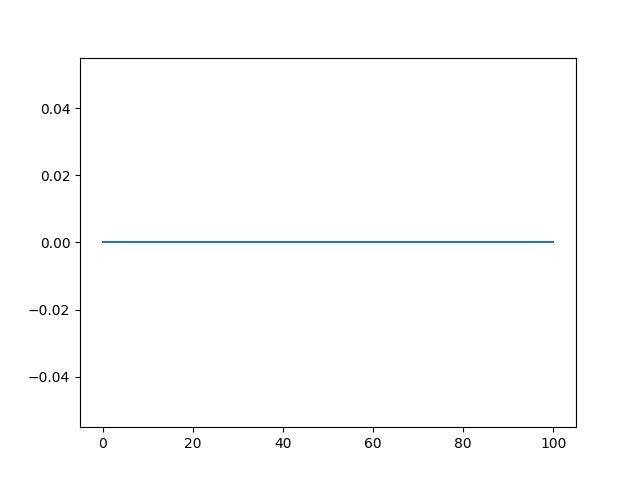
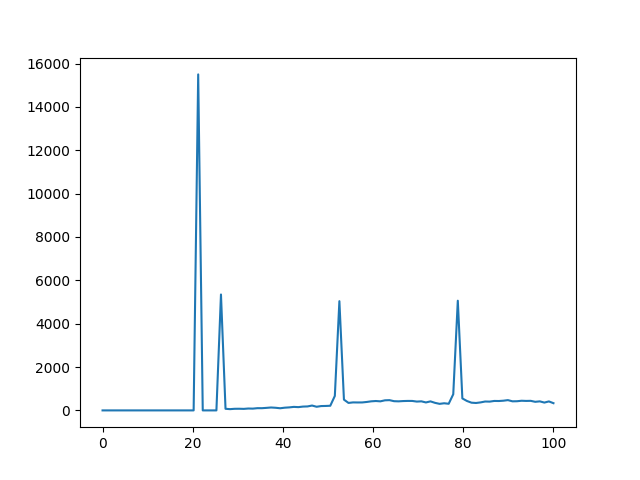
update

diff --git a/LIF/LIF_Nums.py b/LIF/LIF_Nums.py
@@ -1,0 +1,118 @@
+from ctypes import c_int
+
+import numpy as np
+import numpy.ctypeslib as ctl
+from mpi4py import MPI
+
+# 初始化 MPI 配置
+comm = MPI.COMM_WORLD
+comm_rank = comm.Get_rank()
+comm_size = comm.Get_size()
+
+# 初始化 C 动态库函数
+ctl_lib = ctl.load_library("LIF_Nums.so", "./LIF")
+ctl_lib.lifPI.restypes = None
+ctl_lib.lifPI.argtypes = [
+    ctl.ndpointer(dtype=np.single), ctl.ndpointer(dtype='b'), c_int,
+    ctl.ndpointer(dtype=np.single), ctl.ndpointer(dtype=np.int8)
+]
+ctl_lib.IjDot.restypes = None
+ctl_lib.IjDot.argtypes = [
+    ctl.ndpointer(dtype=np.single), ctl.ndpointer(dtype='b'),
+    c_int, c_int, ctl.ndpointer(dtype=np.single)
+]
+
+
+def process_Neuron(niter, numNeuron, totalNeuron):
+
+    # 每个 MPI 进程初始化神经元
+    VmR = np.ones(numNeuron, dtype=np.single) * (-70)
+    Ij = np.ones(numNeuron, dtype=np.single) * (0.25)
+    # 初始化突触，兴奋型连接和抑制型连接
+    WeightMask = np.random.choice([-1, 1, 0], size=(numNeuron, totalNeuron), p=[.2, .2, .6])
+    WeightRand = (np.random.rand(numNeuron, totalNeuron)) * (0.1)
+    Weight = np.multiply(WeightMask, WeightRand).astype(np.single)
+    # 释放内存占用
+    del WeightMask, WeightRand
+    # 初始化灭火期记录
+    period = np.zeros(numNeuron, dtype=np.int8)
+
+    # 主进程
+    if comm_rank == 0:
+        import time
+
+        import matplotlib
+        import matplotlib.pyplot as plt
+        matplotlib.use('Agg')
+        numPlot = 100
+        # 打印发送辅助信息
+        print("本程序为 LIF 神经元的 MPI 分布式仿真")
+        print("Linux MPI 版本为")
+        print("灵活调节神经元个数")
+        print("考虑神经元的灭火期")
+        print("通过突触全随机连接计算电流")
+        print("使用 C 动态库进行加速计算")
+        print("使用 Matplotlib 绘图")
+        print("神经元数量为：", totalNeuron)
+        print("集群个数为：", comm_size)
+        print("迭代次数为：", niter)
+        # 绘图数组
+        picU = np.ones(numPlot, dtype=np.single)
+        picS = np.zeros((numPlot, totalNeuron), dtype=bool)
+        picF = np.zeros(numPlot, dtype=np.int32)
+        start = time.time()  # 记录仿真时长
+        gathertime = 0
+
+    for i in range(niter):
+        # 每个进程分别迭代计算，然后全收集
+        # 初始化放电矩阵
+        Spike = np.zeros(numNeuron, dtype='b')
+        SpikeAll = np.zeros(totalNeuron, dtype='b')
+        ctl_lib.lifPI(VmR, Spike, numNeuron, Ij, period)  # 大规模神经元电位计算
+        count = [2000, 4500, 4500, 4500]
+        display = [0, 2000, 6500, 11000]
+        if comm_rank == 0:
+            start2 = time.time()  # 记录仿真时长
+        comm.Allgatherv(Spike, [SpikeAll, count, display, MPI.BYTE])
+        if comm_rank == 0:
+            gathertime += time.time() - start2
+        ctl_lib.IjDot(Weight, SpikeAll, numNeuron, totalNeuron, Ij)  # 计算突触电流
+
+        # 记录单个神经元的膜电位数据
+        if comm_rank == 0:
+            if (i < numPlot):
+                picU[i] = VmR[90]
+                picS[i] = SpikeAll
+                picF[i] = sum(SpikeAll)
+
+    # 主进程发送辅助信息
+    if comm_rank == 0:
+        print("运行时间为:", time.time() - start)
+        print("收集时间为:", gathertime)
+        # 绘制单个神经元的膜电位曲线验证仿真正确性
+        x = np.linspace(0, numPlot, numPlot)
+        figU, ax = plt.subplots()
+        ax.plot(x, picU)
+        figU.savefig("./output/LIF膜电位.png")
+        figS, ay = plt.subplots()
+        for i in range(numPlot):
+            y = np.argwhere(picS[i] == 1)
+            x = np.ones(len(y)) * i
+            ay.scatter(x, y, c='black', s=0.5)
+        figS.savefig("./output/LIF放电栅格图.png")
+        figF, af = plt.subplots()
+        x = np.linspace(0, numPlot, numPlot)
+        af.plot(x, picF)
+        figF.savefig("./output/LIF放电率.png")
+
+
+# 主程序
+if __name__ == '__main__':
+    # 初始化仿真参数
+    if comm_rank == 0:
+        numNeurons = 2000  # 最小集群神经元数量
+    else:
+        numNeurons = 4500
+    totalNeurons = 15500
+    niters = 1000  # 迭代次数
+    process_Neuron(niters, numNeurons, totalNeurons)

diff --git a/LIF/LIF_GB.py b/LIF/LIF_GB.py
@@ -1,0 +1,117 @@
+
+from ctypes import c_int
+
+import numpy as np
+import numpy.ctypeslib as ctl
+from mpi4py import MPI
+
+# 初始化 MPI 配置
+comm = MPI.COMM_WORLD
+comm_rank = comm.Get_rank()
+comm_size = comm.Get_size()
+
+# 初始化 C 动态库函数
+ctl_lib = ctl.load_library("LIF.so", "./LIF")
+ctl_lib.lifPI.restypes = None
+ctl_lib.lifPI.argtypes = [
+    ctl.ndpointer(dtype=np.single), ctl.ndpointer(dtype='b'), c_int,
+    ctl.ndpointer(dtype=np.single), ctl.ndpointer(dtype=np.int8)
+]
+ctl_lib.IjDot.restypes = None
+ctl_lib.IjDot.argtypes = [
+    ctl.ndpointer(dtype=np.single), ctl.ndpointer(dtype='b'),
+    c_int, c_int, ctl.ndpointer(dtype=np.single)
+]
+
+
+def process_Neuron(niter, numNeuron):
+
+    # 每个 MPI 进程初始化神经元
+    VmR = np.ones(numNeuron, dtype=np.single) * (-70)
+    Ij = np.ones(numNeuron, dtype=np.single) * (0.25)
+    # 初始化突触
+    WeightMask = (np.random.choice(  # 兴奋型连接和抑制型连接
+        [-1, 1, 0], size=(numNeuron, numNeuron * comm_size), p=[.2, .2, .6]) * (0.1)).astype(np.single)
+    WeightRand = (np.random.rand(numNeuron, numNeuron * comm_size)).astype(np.single)
+    Weight = np.multiply(WeightMask, WeightRand)
+    # 释放内存占用
+    del WeightMask, WeightRand
+    # 初始化灭火期记录
+    period = np.zeros(numNeuron, dtype=np.int8)
+
+    # 主进程
+    if comm_rank == 0:
+        import time
+
+        import matplotlib
+        import matplotlib.pyplot as plt
+        matplotlib.use('Agg')
+        numPlot = 100
+        # 打印发送辅助信息
+        print("本程序为 LIF 神经元的 MPI 分布式仿真")
+        print("使用 Gather Bcast 方式进行")
+        print("Linux MPI 版本为")
+        print("考虑神经元的灭火期")
+        print("通过突触全随机连接计算电流")
+        print("使用 C 动态库进行加速计算")
+        print("使用 Matplotlib 绘图")
+        print("神经元数量为：", comm_size * numNeuron)
+        print("集群个数为：", comm_size)
+        print("迭代次数为：", niter)
+        # 绘图数组
+        picU = np.ones(numPlot, dtype=np.single)
+        picS = np.zeros((numPlot, comm_size * numNeurons), dtype=bool)
+        picF = np.zeros(numPlot, dtype=np.int32)
+        start = time.time()  # 记录仿真时长
+        gathertime = 0
+
+    for i in range(niter):
+        # 每个进程分别迭代计算，然后全收集
+        # 初始化放电矩阵
+        Spike = np.zeros(numNeuron, dtype='b')
+        SpikeAll = np.zeros(comm_size * numNeuron, dtype='b')
+        if comm_rank != 0:
+            ctl_lib.lifPI(VmR, Spike, numNeuron, Ij, period)  # 大规模神经元电位计算
+        if comm_rank == 0:
+            start2 = time.time()  # 记录通信时长
+        comm.Gather(Spike, SpikeAll, root=0)  # 全收集放电矩阵
+        comm.Bcast(SpikeAll, root=0)
+        if comm_rank == 0:
+            gathertime += time.time() - start2
+        if comm_rank != 0:
+            ctl_lib.IjDot(Weight, SpikeAll, numNeuron, comm_size, Ij)  # 计算突触电流
+
+        # # 记录单个神经元的膜电位数据
+        # if comm_rank == 0:
+        #     if (i < numPlot):
+        #         picU[i] = VmR[90]
+        #         picS[i] = SpikeAll
+        #         picF[i] = sum(SpikeAll)
+
+    # 主进程发送辅助信息
+    if comm_rank == 0:
+        print("运行时间为:", time.time() - start)
+        print("收集时间为:", gathertime)
+        # 绘制单个神经元的膜电位曲线验证仿真正确性
+        x = np.linspace(0, numPlot, numPlot)
+        figU, ax = plt.subplots()
+        ax.plot(x, picU)
+        figU.savefig("./output/LIF膜电位.png")
+        figS, ay = plt.subplots()
+        for i in range(numPlot):
+            y = np.argwhere(picS[i] == 1)
+            x = np.ones(len(y)) * i
+            ay.scatter(x, y, c='black', s=0.5)
+        figS.savefig("./output/LIF放电栅格图.png")
+        figF, af = plt.subplots()
+        x = np.linspace(0, numPlot, numPlot)
+        af.plot(x, picF)
+        figF.savefig("./output/LIF放电率.png")
+
+
+# 主程序
+if __name__ == '__main__':
+    # 初始化仿真参数
+    numNeurons = 4500  # 最小集群神经元数量
+    niters = 1000  # 迭代次数
+    process_Neuron(niters, numNeurons)

diff --git a/LIF/LIF_Nums.c b/LIF/LIF_Nums.c
@@ -1,0 +1,48 @@
+#define tref 3 // refractory period in msec
+#define C 0.2  // capacitance in nF
+#define R 100  // resitance in megaohm
+#define taum (R * C)
+
+// 考虑灭火期
+void lifPI(float *Vm, char *Spike, int numNeu, float *Ij, unsigned char *period)
+{
+    for (int i = 0; i < numNeu; i++)
+    {
+        if (period[i] == 0)
+        {
+            if (Vm[i] > -60 && Vm[i] < 0)
+            {
+                Vm[i] = 0;
+                Spike[i] = 1;
+                continue;
+            }
+            else if (Vm[i] >= 0)
+            {
+                Vm[i] = -70;
+                period[i] = tref;
+                // 这里不能加 continue，否则无法造成随机性
+            }
+            Vm[i] += ((1 / taum) * (-70 - Vm[i] + R * Ij[i]));
+        }
+        else
+        {
+            period[i]--;
+        }
+    }
+}
+
+// 计算突触电流
+void IjDot(float *Weight, char *SpikeAll, int numNeu, int totalNeuron, float *Ij)
+{
+    for (int i = 0; i < numNeu; i++)
+    {
+        Ij[i] = 0.15;
+    }
+    for (int i = 0; i < numNeu; i++)
+    {
+        for (int j = 0; SpikeAll[j] > 0 && j < totalNeuron; j++)
+        {
+            Ij[i] += Weight[i * totalNeuron + j];
+        }
+    }
+}
